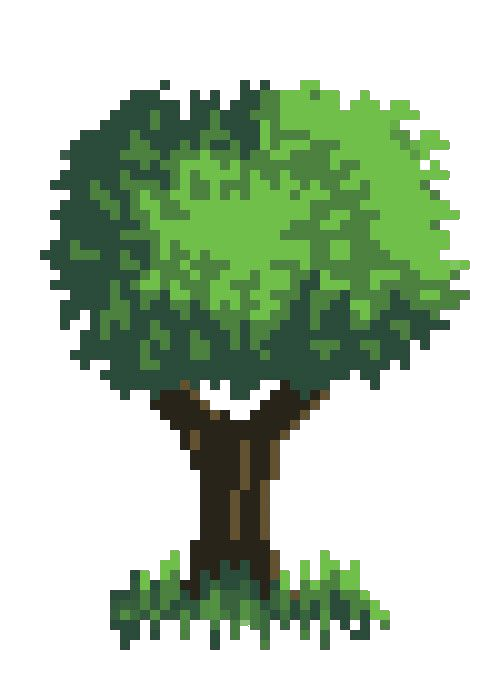
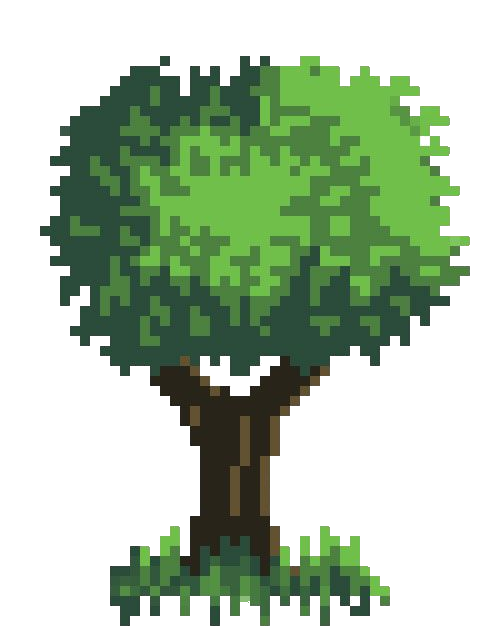
HTML e CSS finalizado!

Changed region(s): [[0.09, 0.3602, 0.93, 0.9905], [0.09, 0.09, 0.93, 0.3302], [0.18, 0.2401, 0.27, 0.3302]]

diff --git a/css/style.css b/css/style.css
@@ -1,0 +1,98 @@
+* {
+  padding: 0;
+  margin: 0;
+  box-sizing: border-box;
+}
+
+body {
+  background-color: #333;
+}
+
+.board {
+  width: 80%;
+  height: 500px;
+  border-bottom: 5px solid rgb(33, 112, 9);
+  margin: 0 auto;
+  position: relative;
+  overflow: hidden;
+  background: linear-gradient(to bottom, #00a2ec, #e9eaeb);
+}
+
+
+.dog {
+  position: absolute;
+  width: 100px;
+  bottom: 0;
+  left: 35px;
+}
+
+.jump {
+  animation: jump-animation 500ms ;
+}
+
+.arbusto {
+  position: absolute;
+  width: 130px;
+  bottom: 0;
+  animation: arbusto-animation 1.5s infinite linear;
+}
+
+.arvore {
+  position: absolute;
+  width: 300px;
+  bottom: -22px;
+  animation: arvore-animation 10s linear infinite;
+}
+.nuvens {
+  position: absolute;
+  width: 450px;
+  animation: nuvens-animation 40s infinite linear;
+}
+
+@keyframes arbusto-animation {
+  from {
+    right: -130px;
+  }
+  to {
+    right: 100%;
+  }
+}
+
+@keyframes jump-animation {
+  0% {
+    bottom: 0;
+  }
+  40% {
+    bottom: 180px;
+  }
+  50% {
+    bottom: 180px;
+  }
+  60% {
+    bottom: 180px;
+  }
+  70% {
+    bottom: 180px
+  }
+  100% {
+    bottom: 0;
+  }
+}
+
+@keyframes nuvens-animation {
+ from {
+  right: -450px;
+ }
+ to {
+  right: 100%;
+ }
+}
+
+@keyframes arvore-animation {
+  from {
+    right: -300px;
+  }
+  to {
+    right: 100%;
+  }
+}

diff --git a/js/script.js b/js/script.js
@@ -1,0 +1,16 @@
+const dog = document.querySelector('.dog')
+
+
+document.addEventListener('keydown', jumpmove)
+document.addEventListener('touchstart', jumpmove)
+
+
+function jumpmove(e) {
+    if(e.code === 'Space') {
+        dog.classList.add('jump')
+        setTimeout(() => {
+            dog.classList.remove('jump')
+        }, 500)
+
+    }
+}

diff --git a/index.html b/index.html
@@ -9,6 +9,14 @@
     <title>Game Dog</title>
 </head>
 <body>
+
+
+    <div class="board">
+        <img src="./images/nuvens.png" class="nuvens">
+        <img src="./images/arvore1.png" class="arvore">
+        <img src="./images/arbusto.png" class="arbusto">
+        <img src="./images/dog.gif" class="dog">
+    </div>
     
 </body>
 </html>
